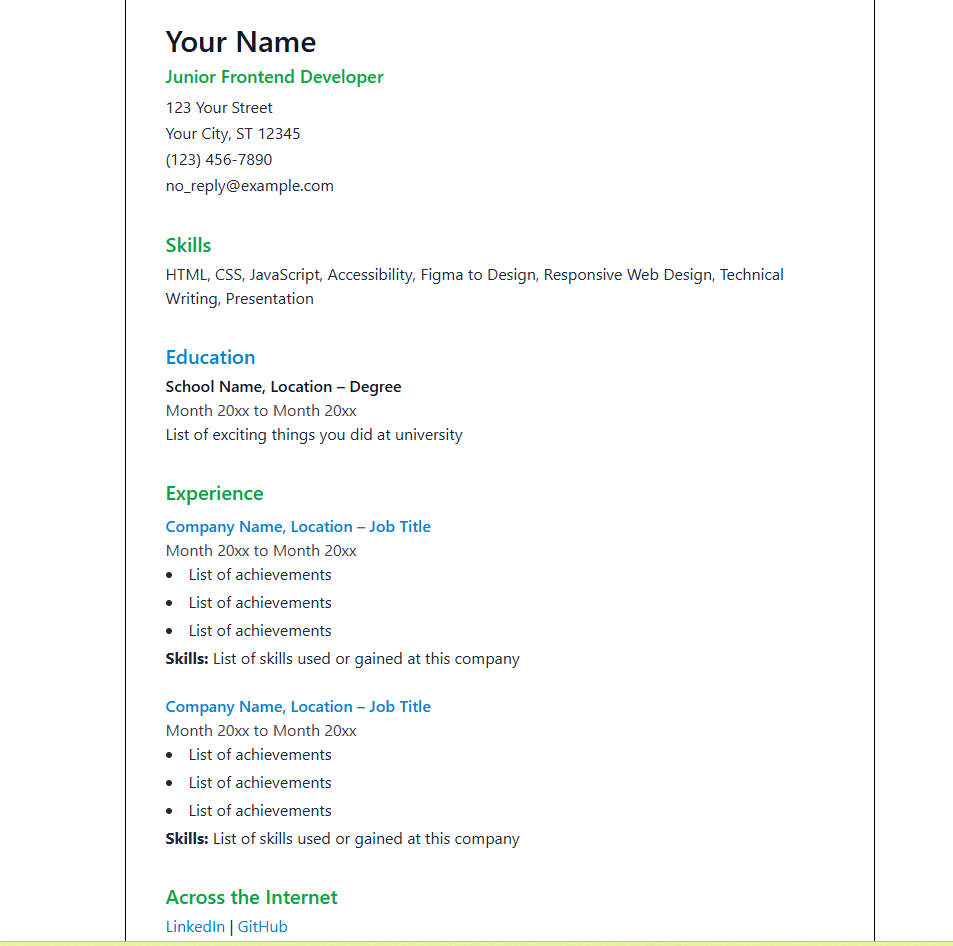
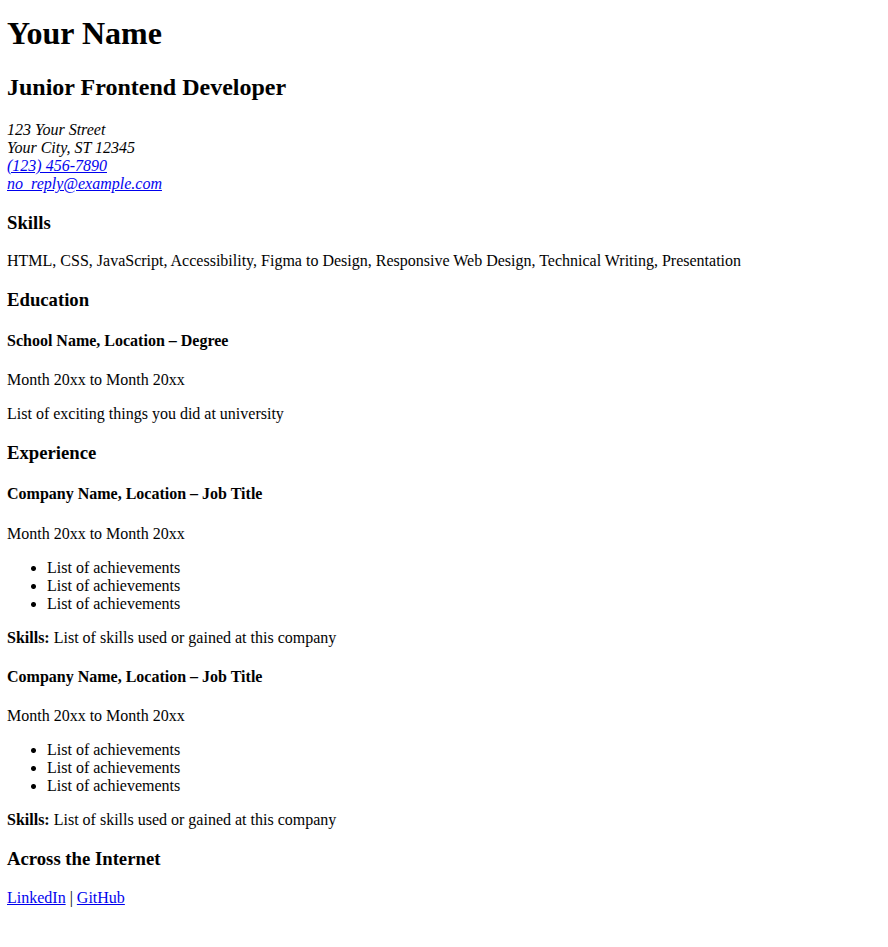
done

Changed region(s): [[0.0, 0.0, 1.0, 1.0]]

diff --git a/single-page-cv/index.html b/single-page-cv/index.html
@@ -34,89 +34,67 @@
 
 		<!-- Favicon -->
 		<link rel="icon" type="image/png" href="favicon.png" />
-
-		<!-- Tailwind CSS v4 (CDN) -->
-		<script src="https://cdn.jsdelivr.net/npm/@tailwindcss/browser@4"></script>
 	</head>
-	<body class="bg-white flex justify-center py-10">
-		<main class="w-full max-w-[750px] border border-black p-10">
-			<!-- Top Divider -->
-			<div class="border-t border-black mb-6"></div>
-
+	<body>
+		<main>
 			<!-- Header -->
-			<header class="space-y-1">
-				<h1 class="text-3xl font-semibold text-gray-900">Your Name</h1>
-				<h2 class="text-lg font-medium text-green-600">
-					Junior Frontend Developer
-				</h2>
-				<address class="not-italic text-gray-800 leading-relaxed">
+			<header>
+				<h1>Your Name</h1>
+				<h2>Junior Frontend Developer</h2>
+				<address>
 					123 Your Street<br />
 					Your City, ST 12345<br />
-					<a href="tel:+11234567890" class="hover:underline"
-						>(123) 456-7890</a
-					><br />
-					<a href="mailto:no_reply@example.com" class="hover:underline"
-						>no_reply@example.com</a
-					>
+					<a href="tel:+11234567890">(123) 456-7890</a><br />
+					<a href="mailto:no_reply@example.com">no_reply@example.com</a>
 				</address>
 			</header>
 
 			<!-- Skills -->
-			<section class="mt-8">
-				<h3 class="text-xl font-semibold text-green-600 mb-1">Skills</h3>
-				<p class="text-gray-800">
+			<section>
+				<h3>Skills</h3>
+				<p>
 					HTML, CSS, JavaScript, Accessibility, Figma to Design, Responsive
 					Web Design, Technical Writing, Presentation
 				</p>
 			</section>
 
 			<!-- Education -->
-			<section class="mt-8">
-				<h3 class="text-xl font-semibold text-sky-600 mb-1">Education</h3>
+			<section>
+				<h3>Education</h3>
 				<div>
-					<h4 class="font-semibold text-gray-900">
-						School Name, Location – Degree
-					</h4>
-					<p class="text-gray-700">Month 20xx to Month 20xx</p>
-					<p class="text-gray-800">
-						List of exciting things you did at university
-					</p>
+					<h4>School Name, Location – Degree</h4>
+					<p>Month 20xx to Month 20xx</p>
+					<p>List of exciting things you did at university</p>
 				</div>
 			</section>
 
 			<!-- Experience -->
-			<section class="mt-8">
-				<h3 class="text-xl font-semibold text-green-600 mb-2">
-					Experience
-				</h3>
+			<section>
+				<h3>Experience</h3>
 
-				<article class="mb-6">
-					<h4 class="font-semibold text-sky-600">
-						Company Name, Location – Job Title
-					</h4>
-					<p class="text-gray-700">Month 20xx to Month 20xx</p>
-					<ul class="list-disc list-inside text-gray-800 space-y-1">
+				<article>
+					<h4>Company Name, Location – Job Title</h4>
+					<p>Month 20xx to Month 20xx</p>
+					<ul>
 						<li>List of achievements</li>
 						<li>List of achievements</li>
 						<li>List of achievements</li>
 					</ul>
-					<p class="text-gray-800 mt-1">
+					<p>
 						<strong>Skills:</strong> List of skills used or gained at this
 						company
 					</p>
 				</article>
 
 				<article>
-					<h4 class="font-semibold text-sky-600">
-						Company Name, Location – Job Title
-					</h4>
-					<p class="text-gray-700">Month 20xx to Month 20xx</p>
-					<ul class="list-disc list-inside text-gray-800 space-y-1">
+					<h4>Company Name, Location – Job Title</h4>
+					<p>Month 20xx to Month 20xx</p>
+					<ul>
 						<li>List of achievements</li>
 						<li>List of achievements</li>
 						<li>List of achievements</li>
 					</ul>
-					<p class="text-gray-800 mt-1">
+					<p>
 						<strong>Skills:</strong> List of skills used or gained at this
 						company
 					</p>
@@ -124,22 +102,12 @@
 			</section>
 
 			<!-- Internet Links -->
-			<section class="mt-8">
-				<h3 class="text-xl font-semibold text-green-600 mb-1">
-					Across the Internet
-				</h3>
-				<p class="text-gray-800">
-					<a
-						href="https://linkedin.com/in/yourprofile"
-						class="text-sky-600 hover:underline"
-						>LinkedIn</a
-					>
+			<section>
+				<h3>Across the Internet</h3>
+				<p>
+					<a href="https://linkedin.com/in/yourprofile">LinkedIn</a>
 					|
-					<a
-						href="https://github.com/yourusername"
-						class="text-sky-600 hover:underline"
-						>GitHub</a
-					>
+					<a href="https://github.com/yourusername">GitHub</a>
 				</p>
 			</section>
 		</main>

diff --git a/basic-html-website/index.html b/basic-html-website/index.html
@@ -1,0 +1,141 @@
+<!DOCTYPE html>
+<html lang="en">
+	<head>
+		<meta charset="UTF-8" />
+		<meta name="viewport" content="width=device-width, initial-scale=1.0" />
+		<meta
+			name="description"
+			content="Frontend Developer Portfolio - Showcasing web development projects, skills, and experience in HTML, CSS, JavaScript and modern frameworks"
+		/>
+		<meta
+			name="keywords"
+			content="frontend developer, web development, HTML, CSS, JavaScript, portfolio, web design"
+		/>
+		<meta name="author" content="Your Name" />
+		<meta property="og:title" content="Frontend Developer Portfolio" />
+		<meta
+			property="og:description"
+			content="Experienced Frontend Developer specializing in creating responsive and user-friendly web applications"
+		/>
+		<meta property="og:type" content="website" />
+		<meta property="og:url" content="https://yourwebsite.com" />
+		<title>Frontend Developer Portfolio - Home</title>
+	</head>
+	<body>
+		<header>
+			<nav>
+				<div>
+					<strong>Your Name</strong>
+				</div>
+				<ul>
+					<li><a href="index.html">Home</a></li>
+					<li><a href="projects.html">Projects</a></li>
+					<li><a href="articles.html">Articles</a></li>
+					<li><a href="contact.html">Contact</a></li>
+				</ul>
+			</nav>
+		</header>
+
+		<main>
+			<section>
+				<h1>Frontend Developer</h1>
+				<p>HTML only with proper layout, no styling</p>
+			</section>
+
+			<section>
+				<article>
+					<h2>Projects</h2>
+					<ul>
+						<li>HTML Only Portfolio</li>
+						<li>Calculator</li>
+						<li>Quiz App</li>
+						<li>Countdown Timer</li>
+						<li>Product Upcoming Page</li>
+					</ul>
+				</article>
+
+				<article>
+					<h2>Work Experience</h2>
+					<h3>roadmap.sh</h3>
+					<p>Solved all the frontend projects</p>
+					<a href="https://roadmap.sh/profile">Visit my Profile</a>
+
+					<h3>OpenSource Work</h3>
+					<p>
+						Contributed to 50 opensource projects. Made my own projects
+						with 200 GitHub Stars.
+					</p>
+					<a href="https://github.com">Visit my GitHub Profile</a>
+				</article>
+
+				<article>
+					<h2>Education</h2>
+					<p>
+						Graduated with 3.76 out of 4 CGPA. Won Acme Hackathon.
+						Organized 30 sessions.
+					</p>
+
+					<h3>Courses I took:</h3>
+					<ul>
+						<li>Object Oriented Programming</li>
+						<li>Data Structures and Algorithms</li>
+						<li>Web Engineering</li>
+						<li>Artificial Intelligence</li>
+						<li>Human Computer Interaction</li>
+						<li>Computer Graphics</li>
+						<li>Database Management Systems</li>
+						<li>Distributed Database Systems</li>
+						<li>Discreet Mathematics</li>
+					</ul>
+				</article>
+			</section>
+
+			<section>
+				<h2>Reviews from my Teachers</h2>
+
+				<blockquote>
+					<p>
+						John doe was a brilliant student; always stood out with his
+						assignments.
+					</p>
+					<footer>
+						<cite
+							>Jane Doe<br />
+							Assistant Professor</cite
+						>
+					</footer>
+				</blockquote>
+
+				<blockquote>
+					<p>
+						John doe was a brilliant student; always stood out with his
+						assignments.
+					</p>
+					<footer>
+						<cite
+							>Jane Doe<br />
+							Assistant Professor</cite
+						>
+					</footer>
+				</blockquote>
+
+				<blockquote>
+					<p>
+						John doe was a brilliant student; always stood out with his
+						assignments.
+					</p>
+					<footer>
+						<cite
+							>Jane Doe<br />
+							Assistant Professor</cite
+						>
+					</footer>
+				</blockquote>
+			</section>
+		</main>
+
+		<footer>
+			<p>&copy; all rights reserved 2025</p>
+		</footer>
+	</body>
+</html>

diff --git a/READme.md b/READme.md
@@ -16,4 +16,7 @@ Click any of the images below to view the readme and live demo of the project.
   <a href='/tabs'>
     <img width="48%" src="./assets/images/tabs.png" alt="tabs" />
   </a>
+  <a href='/basic-html-website'>
+    <img width="48%" src="./assets/images/basic-html-website.png" alt="basic html website" />
+  </a>
 </p>
